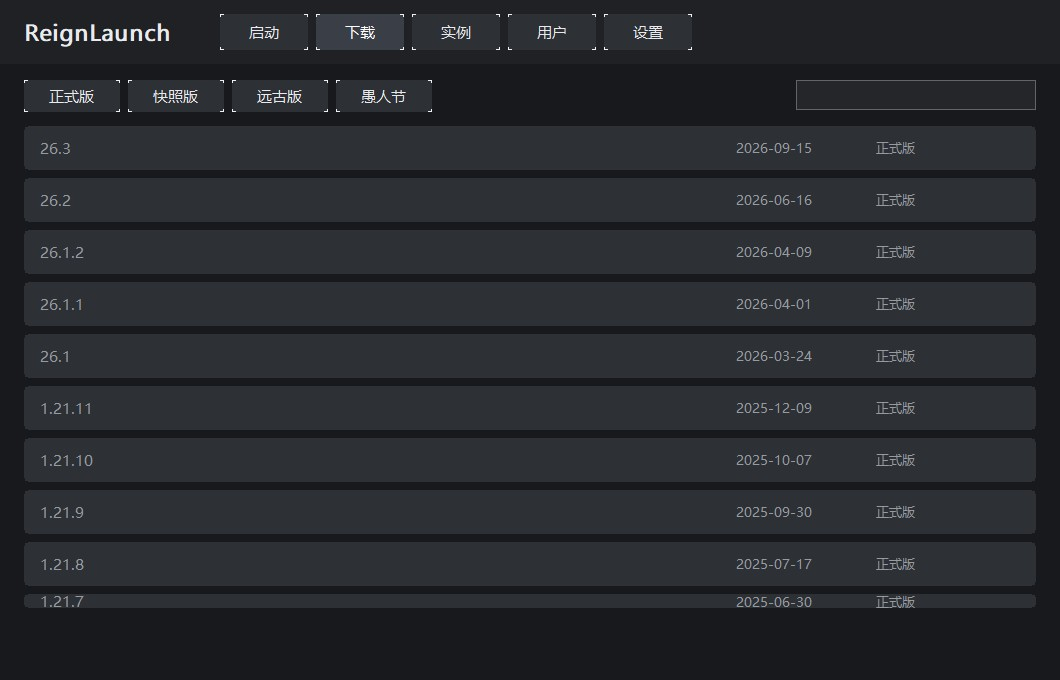
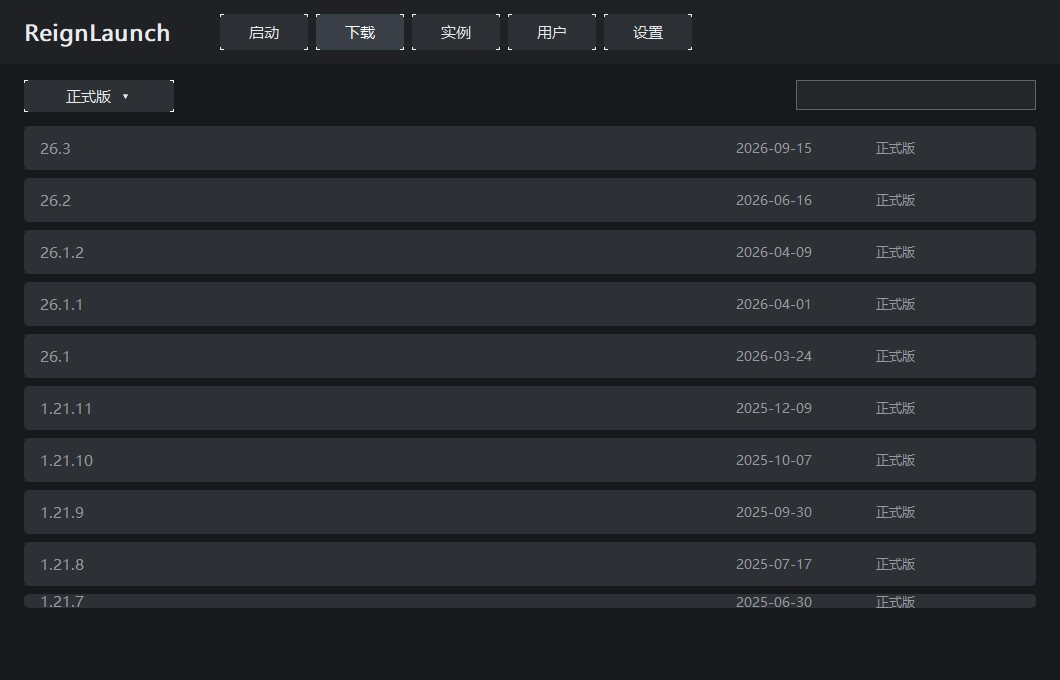
ui: version category as dropdown instead of 4 buttons

Changed region(s): [[0.0311, 0.1235, 0.4047, 0.1853]]

diff --git a/src/ReignLaunch.cpp b/src/ReignLaunch.cpp
@@ -127,7 +127,7 @@ static HWND hLblJava, hEdJava, hBtnAutoJava, hBtnBrowseJava, hBtnJavaDrop;
 static HWND hLblMem, hEdMem, hEdName, hLblName, hBtnSave, hBtnIso, hEdThreads, hEdJvm, hEdGame, hBtnSource, hBtnFull;
 static HWND hBtnUpdate;
 static HWND hBtnDlVanilla, hBtnDlFabric, hBtnDlQuilt, hBtnDlForge, hBtnDlNeo;
-static HWND hBtnDlF0, hBtnDlF1, hBtnDlF2, hBtnDlF3, hEdSearch, hBtnDlBack, hBtnDlInstall, hBtnDlFapi, hBtnDlQsl;
+static HWND hBtnDlF0, hBtnDlF1, hBtnDlF2, hBtnDlF3, hEdSearch, hBtnDlBack, hBtnDlInstall, hBtnDlFapi, hBtnDlQsl, hBtnDlFilterSel;
 
 struct McVer { std::string id, type, url, date; };
 static std::vector<McVer> g_mcVers;
@@ -1510,6 +1510,7 @@ static std::string        g_loginErr;
 #define ID_DL_INSTALL    1384
 #define ID_DL_FAPI       1387
 #define ID_DL_QSL        1388
+#define ID_DL_FILTERSEL  1389
 #define ID_ED_SEARCH     1385
 #define ID_DL_BACK       1386
 #define ID_BTN_SAVE     1320
@@ -1683,11 +1684,7 @@ static void LayoutControls() {
         {
             int tx0 = g_ly.content.left + Scale(24);
             int ty0 = g_ly.content.top + Scale(16);
-            int tw = Scale(96), tg = Scale(8);
-            MoveWindow(hBtnDlF0, tx0, ty0, tw, Scale(32), TRUE); tx0 += tw + tg;
-            MoveWindow(hBtnDlF1, tx0, ty0, tw, Scale(32), TRUE); tx0 += tw + tg;
-            MoveWindow(hBtnDlF2, tx0, ty0, tw, Scale(32), TRUE); tx0 += tw + tg;
-            MoveWindow(hBtnDlF3, tx0, ty0, tw, Scale(32), TRUE);
+            MoveWindow(hBtnDlFilterSel, tx0, ty0, Scale(150), Scale(32), TRUE);
             MoveWindow(hEdSearch, g_ly.content.right - Scale(24) - Scale(240), ty0, Scale(240), Scale(30), TRUE);
 
             int dby = g_ly.content.top + Scale(64);
@@ -1718,10 +1715,11 @@ static void SyncDownloadControls() {
     ShowWindow(hBtnDlInstall, showDet);
     ShowWindow(hBtnDlFapi, showDet);
     ShowWindow(hBtnDlQsl,  showDet);
-    ShowWindow(hBtnDlF0, showDl);
-    ShowWindow(hBtnDlF1, showDl);
-    ShowWindow(hBtnDlF2, showDl);
-    ShowWindow(hBtnDlF3, showDl);
+    ShowWindow(hBtnDlFilterSel, showDl);
+    ShowWindow(hBtnDlF0, SW_HIDE);
+    ShowWindow(hBtnDlF1, SW_HIDE);
+    ShowWindow(hBtnDlF2, SW_HIDE);
+    ShowWindow(hBtnDlF3, SW_HIDE);
     ShowWindow(hEdSearch, showDl);
     ShowWindow(hBtnDlVanilla, showDet);
     ShowWindow(hBtnDlFabric,  showDet);
@@ -3275,6 +3273,12 @@ static void ShowDropPopup(int mode) {
     if (mode == 0)      g_dropItems = g_dirCands;
     else if (mode == 1) g_dropItems = g_javaCands;
     else if (mode == 2) { for (auto& v : g_versions) g_dropItems.push_back({ v, v }); }
+    else if (mode == 7) {
+        g_dropItems.push_back({ "正式版", "正式版" });
+        g_dropItems.push_back({ "快照版", "快照版" });
+        g_dropItems.push_back({ "远古版", "远古版" });
+        g_dropItems.push_back({ "愚人节", "愚人节" });
+    }
     else {
         g_dropItems.push_back({ "隔离所有实例", "隔离所有实例" });
         g_dropItems.push_back({ "隔离模组实例", "隔离模组实例" });
@@ -3286,10 +3290,11 @@ static void ShowDropPopup(int mode) {
     if (mode == 0)      GetWindowRect(hEdDir, &er);
     else if (mode == 1) GetWindowRect(hEdJava, &er);
     else if (mode == 2) GetWindowRect(hBtnInstArrow, &er);
-    else                GetWindowRect(hBtnIso, &er);
+    else if (mode == 3) GetWindowRect(hBtnIso, &er);
+    else                GetWindowRect(hBtnDlFilterSel, &er);
 
     int itemH = Scale(28);
-    int w = Scale(mode == 2 ? 300 : (mode == 3 ? 300 : 420));
+    int w = Scale(mode == 2 ? 300 : (mode == 7 ? 180 : (mode == 3 ? 300 : 420)));
     int h = itemH * (int)g_dropItems.size() + Scale(8);
 
     static bool reg = false;
@@ -3347,6 +3352,7 @@ static LRESULT CALLBACK MainProc(HWND hwnd, UINT msg, WPARAM wp, LPARAM lp) {
         hBtnDlInstall = MakeBtn(hwnd, L"安装", ID_DL_INSTALL);
         hBtnDlFapi    = MakeBtn(hwnd, L"Fabric API", ID_DL_FAPI);
         hBtnDlQsl     = MakeBtn(hwnd, L"QSL", ID_DL_QSL);
+        hBtnDlFilterSel = MakeBtn(hwnd, L"正式版  ▾", ID_DL_FILTERSEL);
 
         hBtnLaunch  = MakeBtn(hwnd, L"启动游戏", ID_BTN_LAUNCH);
         hBtnRefresh = MakeBtn(hwnd, L"刷新版本", ID_BTN_REFRESH);
@@ -3683,7 +3689,11 @@ static LRESULT CALLBACK MainProc(HWND hwnd, UINT msg, WPARAM wp, LPARAM lp) {
             break;
         }
 
-        case ID_DL_FILTER0: case ID_DL_FILTER1: case ID_DL_FILTER2: case ID_DL_FILTER3: {
+        case ID_DL_FILTERSEL:
+        ShowDropPopup(7);
+        break;
+
+    case ID_DL_FILTER0: case ID_DL_FILTER1: case ID_DL_FILTER2: case ID_DL_FILTER3: {
             g_dlFilter = (int)(wp & 0xFFFF) - ID_DL_FILTER0;
             g_dlSel = -1;
             RebuildDlView();
@@ -4038,6 +4048,18 @@ static LRESULT CALLBACK MainProc(HWND hwnd, UINT msg, WPARAM wp, LPARAM lp) {
     case WM_DROP_PICK: {
         int idx = (int)wp;
         int mode = (int)lp;
+        if (mode == 7) {
+            if (idx >= 0 && idx < 4) {
+                g_dlFilter = idx;
+                const wchar_t* names[] = { L"正式版", L"快照版", L"远古版", L"愚人节" };
+                SetWindowTextW(hBtnDlFilterSel, (std::wstring(names[idx]) + L"  ▾").c_str());
+                g_dlSel = -1;
+                RebuildDlView();
+            }
+            InvalidateRect(hwnd, nullptr, TRUE);
+            return 0;
+        }
+
         if (mode == 3) {
             if (idx >= 0 && idx < 3) {
                 g_cfg.isoMode = idx;
